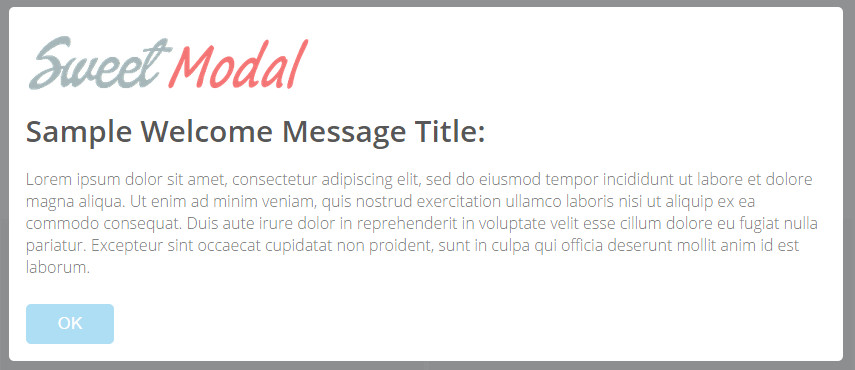
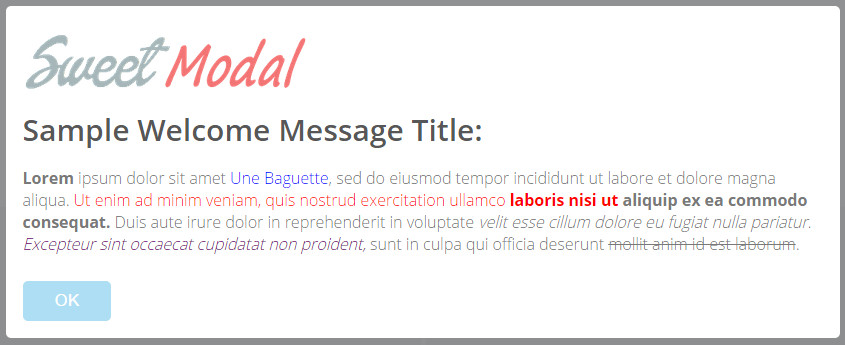
isHtmlContent Update
new parameter to add html content in "text" parameter

Changed region(s): [[0.0, 0.0, 1.0, 0.9855]]

diff --git a/lib/sweet-modal.js b/lib/sweet-modal.js
@@ -23,7 +23,8 @@
         imageUrl: null,
         imageSize: null,
         timer: null,
-		div_class: ""
+	    div_class: "",
+        isHtmlContent: false
       };
 
 
@@ -179,7 +180,7 @@
    * Add modal + overlay to DOM
    */
 
-  window.sweetAlertInitialize = function() {
+  window.sweetModalInitialize = function() {
     var sweetHTML = '<div class="sweet-overlay" tabIndex="-1"></div><div class="sweet-modal" tabIndex="-1"><div class="icon error"><span class="x-mark"><span class="line left"></span><span class="line right"></span></span></div><div class="icon warning"> <span class="body"></span> <span class="dot"></span> </div> <div class="icon info"></div> <div class="icon success"> <span class="line tip"></span> <span class="line long"></span> <div class="placeholder"></div> <div class="fix"></div> </div> <div class="icon custom"></div> <h2>Title</h2><p>Text</p><button class="cancel" tabIndex="2">Cancel</button><button class="confirm" tabIndex="1">OK</button></div>',
         sweetWrap = document.createElement('div');
 
@@ -199,12 +200,12 @@
   }
 
   /*
-   * Global sweetAlert function
+   * Global sweetModal function
    */
 
-  window.sweetAlert = window.swmo = function() {
+  window.sweetModal = window.swmo = function() {
     if (arguments[0] === undefined) {
-      window.console.error('sweetAlert expects at least 1 attribute!');
+      window.console.error('sweetModal expects at least 1 attribute!');
       return false;
     }
 
@@ -233,7 +234,8 @@
         params.closeOnConfirm     = arguments[0].closeOnConfirm !== undefined ? arguments[0].closeOnConfirm : defaultParams.closeOnConfirm;
         params.closeOnCancel      = arguments[0].closeOnCancel !== undefined ? arguments[0].closeOnCancel : defaultParams.closeOnCancel;
         params.timer              = arguments[0].timer || defaultParams.timer;
-		params.div_class 			  = arguments[0].div_class || defaultParams.div_class;
+	params.div_class 	  = arguments[0].div_class || defaultParams.div_class;
+        params.isHtmlContent      = arguments[0].isHtmlContent || defaultParams.isHtmlContent;
 
         // Show "Confirm" instead of "OK" if cancel button is visible
         params.confirmButtonText  = (defaultParams.showCancelButton) ? 'Confirm' : defaultParams.confirmButtonText;
@@ -501,7 +503,12 @@
 	modal.className = modal.className + " " + params.div_class;
 	console.log(modal.className);
     // Text
-    $text.innerHTML = escapeHtml(params.text || '').split("\n").join("<br>");
+    if (params.isHtmlContent == true){
+        $text.innerHTML = params.text;
+    }
+    else {
+        $text.innerHTML = escapeHtml(params.text || '').split("\n").join("<br>");
+    }
     if (params.text) {
       show($text);
     }
@@ -733,18 +740,18 @@
 
   (function () {
 	  if (document.readyState === "complete" || document.readyState === "interactive" && document.body) {
-		  sweetAlertInitialize();
+		  sweetModalInitialize();
 	  } else {
 		  if (document.addEventListener) {
 			  document.addEventListener('DOMContentLoaded', function factorial() {
 				  document.removeEventListener('DOMContentLoaded', arguments.callee, false);
-				  sweetAlertInitialize();
+				  sweetModalInitialize();
 			  }, false);
 		  } else if (document.attachEvent) {
 			  document.attachEvent('onreadystatechange', function() {
 				  if (document.readyState === 'complete') {
 					  document.detachEvent('onreadystatechange', arguments.callee);
-					  sweetAlertInitialize();
+					  sweetModalInitialize();
 				  }
 			  });
 		  }

diff --git a/example/index.html b/example/index.html
@@ -50,12 +50,13 @@
 		title:<span class="str">"Sample Welcome Message Title:"</span>,
 		text: <span class="str">"Lorem ipsum dolor sit..."</span>,
 		imageUrl: <span class="str">'images/Custom_Modal_Picture.png'</span>,
-		div_class: <span class="str">"custom_className_fromCSS"</span>
+		div_class: <span class="str">"custom_className_fromCSS"</span>,
+        isHtmlContent: <span class="str">true</span>
 	});
 	</pre>
 </div>
 
-<p>SweetModal displays a modal which reacts like SweetAlert but is more customizable because you can use a css class as a parameter ! (details below...)</p>
+<p>SweetModal displays a modal which reacts like SweetAlert but is more customizable because you can use a css class as a parameter and use html content in "text" ! (details below...)</p>
 <p>Download SweetModal on GitHub : <a href="https://github.com/JulienLaclaverie/sweetmodal" target="_blank">Click here</a></p>
 
 <!-- Configuration -->
@@ -140,6 +141,11 @@
 		<td><i>" "</i></td>
 		<td>Set this parameter to any css class name to change the modal's css.</td>
 	</tr>
+	<tr>
+		<td><b>isHtmlContent</b></td>
+		<td><i>false</i></td>
+		<td>Set this parameter to true if you want to add custom html content in "text".</td>
+	</tr>
 </table>
 
 <!-- Contribute -->
@@ -160,9 +166,10 @@ document.querySelector('.showcase.normal button').onclick = function(){
 document.querySelector('.showcase.sweet button').onclick = function(){
 	swmo({
 		title: "Sample Welcome Message Title:",
-		text: "Lorem ipsum dolor sit amet, consectetur adipiscing elit, sed do eiusmod tempor incididunt ut labore et dolore magna aliqua. Ut enim ad minim veniam, quis nostrud exercitation ullamco laboris nisi ut aliquip ex ea commodo consequat. Duis aute irure dolor in reprehenderit in voluptate velit esse cillum dolore eu fugiat nulla pariatur. Excepteur sint occaecat cupidatat non proident, sunt in culpa qui officia deserunt mollit anim id est laborum.",
+		text: '<style type="text/css">.swmoBLUE {color: blue;} .swmoRED {color: red;}.swmoPURPLE {color: purple;}</style><b>Lorem</b> ipsum dolor sit amet <span class="swmoBLUE">Une Baguette</span>, sed do eiusmod tempor incididunt ut labore et dolore magna aliqua. <span class="swmoRED">Ut enim ad minim veniam, quis nostrud exercitation ullamco <b>laboris nisi ut </span>aliquip ex ea commodo consequat.</b> Duis aute irure dolor in reprehenderit in voluptate <i>velit esse cillum dolore eu fugiat nulla pariatur. <span class="swmoPURPLE">Excepteur sint occaecat cupidatat non proident,</i> sunt in culpa qui officia deserunt <s>mollit anim id est laborum</s>.</span>',
 		imageUrl: 'images/logo_big.png',
-		div_class: "custom-modal"
+		div_class: "custom-modal",
+        isHtmlContent: true
 	});
 };
 

diff --git a/README.md b/README.md
@@ -3,7 +3,10 @@
 Modal replacement for JavaScript's alert based on sweet-alert by Tristan Edwards.
 
 
-A SweetModal can be used to display welcome pop-in and is customizable using css class name as a parameter !
+A SweetModal can be used to display welcome pop-in and is much more customizable !
+
+- Add a css class as a parameter to customize the modal
+- Chose between standard sweet-alert text and html content.
 
 ![A success modal](https://raw.github.com/JulienLaclaverie/sweetmodal/master/modal.jpg)
 
